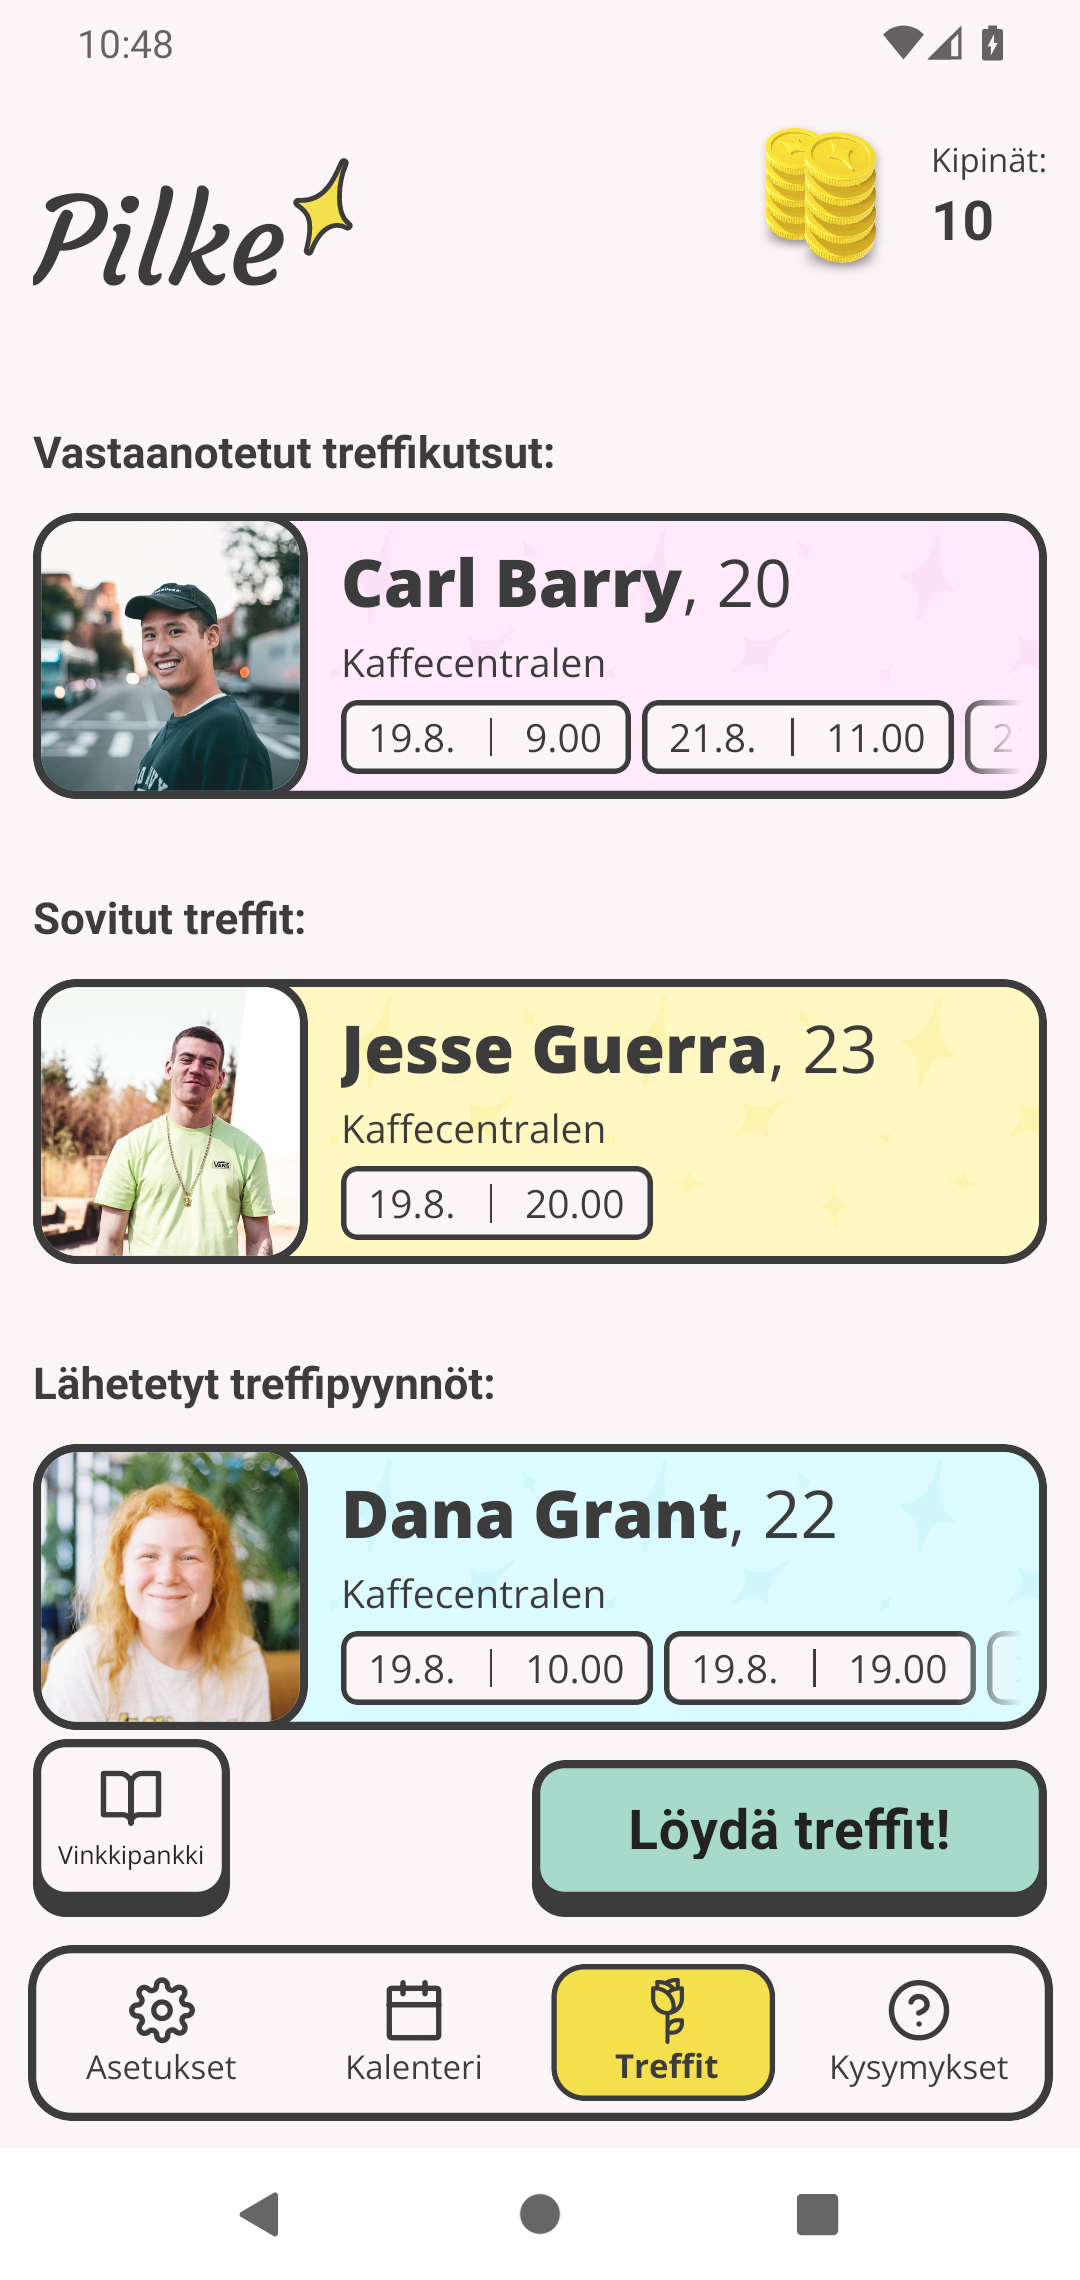
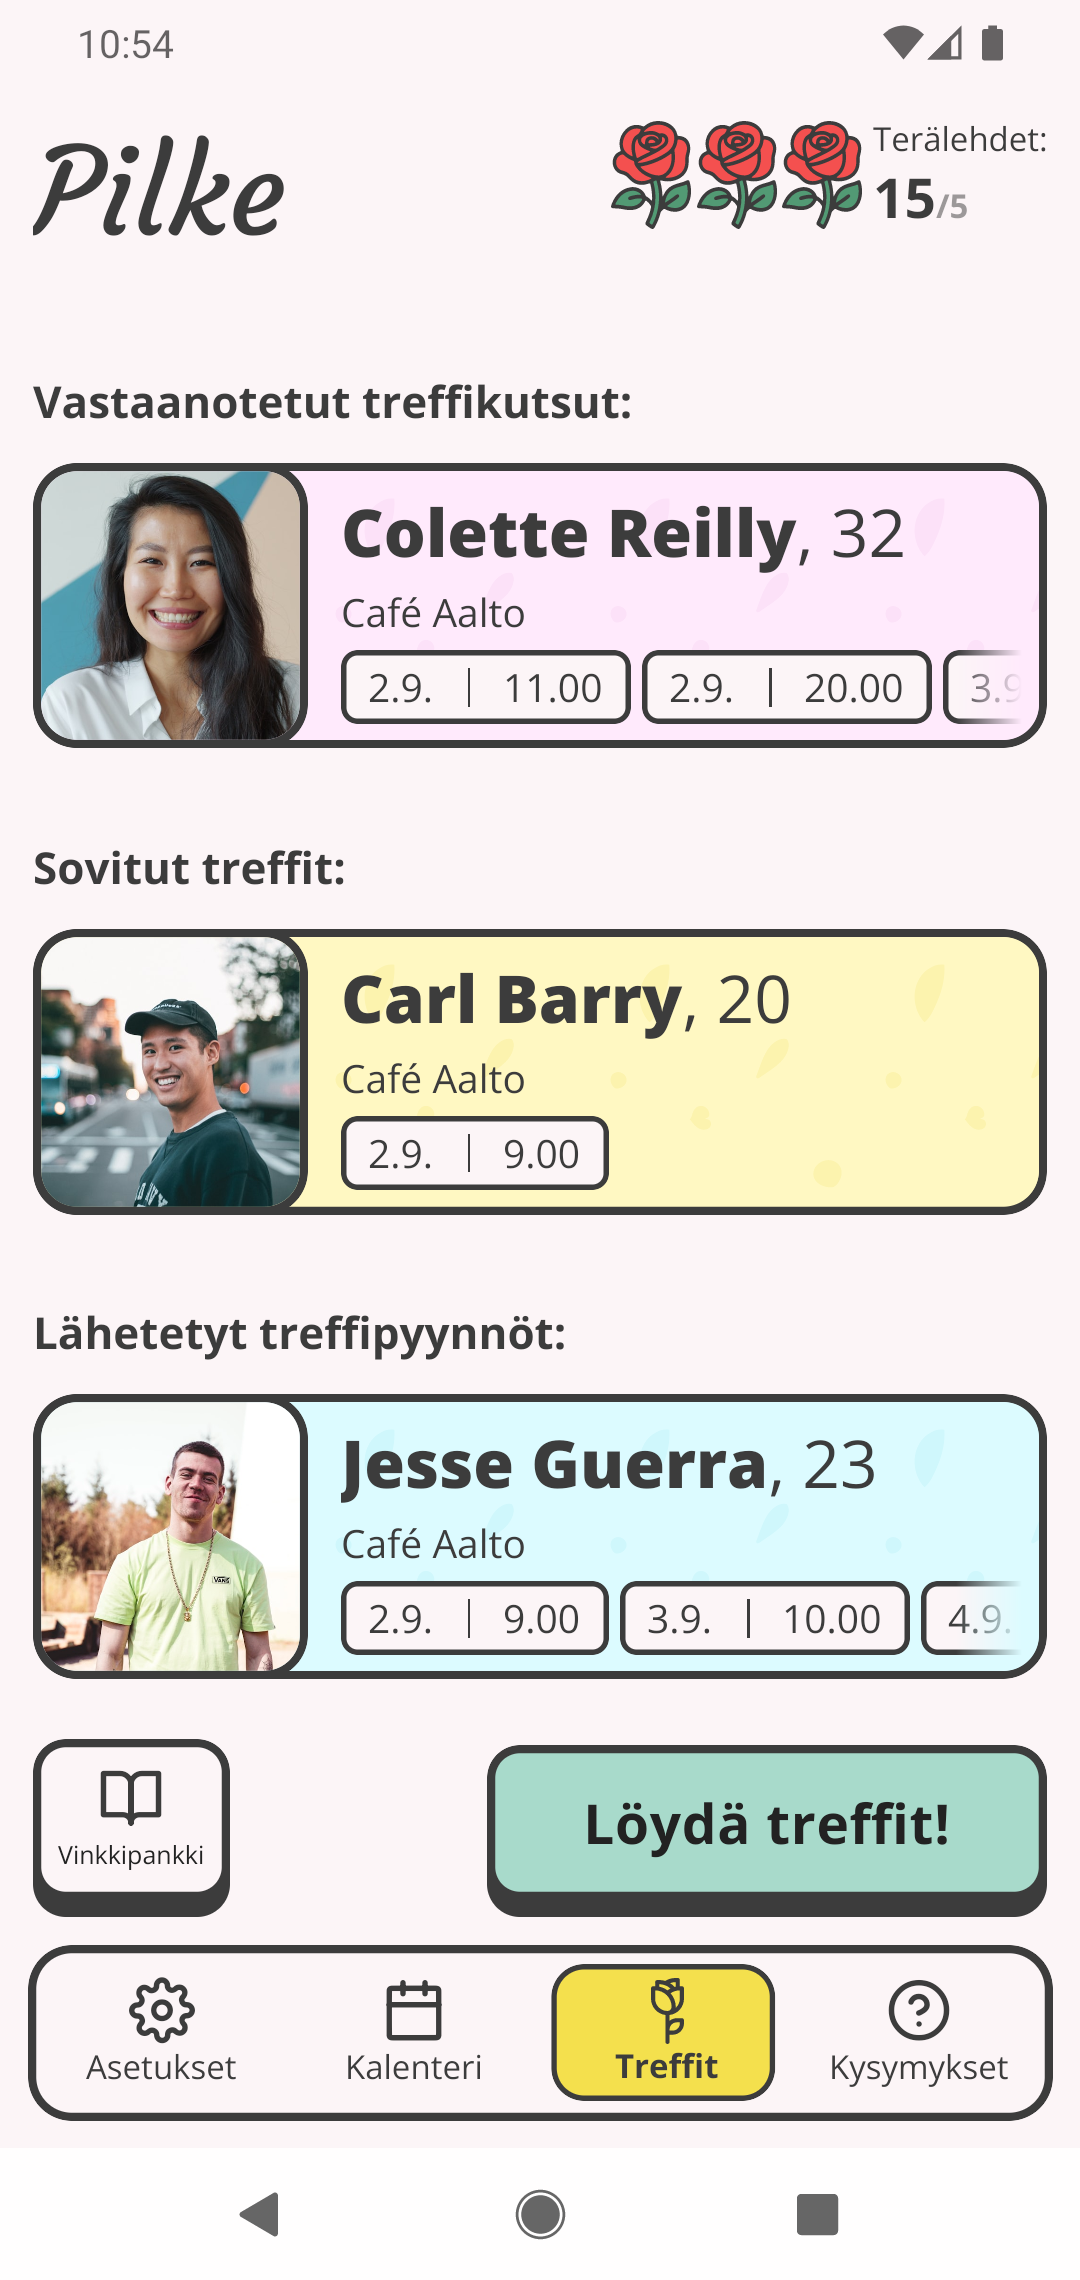
Reshoot the three pictures the petal refactor changed
`treffit` carried the coin pile and the `Kipinät:` label; it now shows
three rose slots and `Terälehdet: 15/5`. `story` and `platter` were both
drawn on the sparkle-tiled ground, which is the petal tile now, and
`story` also carries the wordmark, so its sparkle became a rose.

The other four are deliberately untouched. `invitation`, `date`,
`feedback` and `asetukset` name nothing the refactor changed, and this
document's own rule says reshooting them "only churns which mock partner
the fixture paired you with" — which is exactly what happened when I
tried: a richer availability fixture pushed the invitation's offered
times to sixteen chips and shoved the venue, the map and both answer
buttons off the screen, and LogBox landed a warning toast in two other
captures.

Verified by decoding `dist/_astro/treffit.*.webp` rather than the source,
since the optimiser keys its cache on path; `npm run pictures --check`
passes at 14 pages and 7 pictures.

Also corrected two things this document had wrong: current Maestro writes
`takeScreenshot: shots/x` under `~/.maestro/tests/<run>/…` rather than
the working directory, which reads as a flow that silently wrote nothing;
and the flows want a preview build, because a development build adds both
the dev launcher and the LogBox toast.

Claude-Session: https://claude.ai/code/session_01GD9L6NkBiCqNs6T5pZN8hJ

diff --git a/docs/pictures.md b/docs/pictures.md
@@ -27,8 +27,18 @@ back is to copy it out of `pilke-app/shots/` and give it a row below.
 
 Screenshots come from `pilke-app/.maestro/demo/`: `screenshots.yaml` takes most of them,
 `screenshotDate.yaml`, `screenshotPlatter.yaml`, `screenshotStory.yaml` and
-`screenshotFeedback.yaml` the ones needing a fixture that flow cannot build. They land in
-`pilke-app/shots/` and are copied here by hand.
+`screenshotFeedback.yaml` the ones needing a fixture that flow cannot build. They are
+copied here by hand from wherever Maestro wrote them — current versions put a
+`takeScreenshot: shots/x` under
+`~/.maestro/tests/<run>/<flow name>/takeScreenshot/shots/x.png` rather than in the
+directory the command was run from, so check there before concluding a flow wrote
+nothing.
+
+⚠ **Run the flows against a preview build** (`npm run build:ci`), which is what CI does.
+A development build adds two things a marketing asset must not carry: the dev launcher
+appears after every `clearState: true` unless the flow reconnects it, and LogBox parks a
+red warning toast over the bottom of the screen — it landed in a `date` and a `feedback`
+capture during the #72 reshoot and both had to be retaken.
 
 ## What is drawn where
 
@@ -38,20 +48,20 @@ Generated by `npm run pictures`. Widths are what the page asks for, before the 2
 
 | Page | Pictures, in the order they appear |
 | --- | --- |
-| `/en/` | `treffit` 600px<br>`platter` 600px<br>`invitation` 600px<br>`date` 600px<br>`feedback` 600px<br>`asetukset` 460px |
-| `/en/kayttoehdot/` | none |
-| `/en/kysyttya/` | none |
-| `/en/nain-se-toimii/` | `story` 500px<br>`platter` 500px<br>`05` 73px<br>`date` 500px |
-| `/en/tietojen-poisto/` | none |
-| `/en/tietosuoja/` | none |
-| `/en/turvallisuus/` | `asetukset` 520px |
+| `/en.html/` | `treffit` 600px<br>`platter` 600px<br>`invitation` 600px<br>`date` 600px<br>`feedback` 600px<br>`asetukset` 460px |
+| `/en/kayttoehdot.html/` | none |
+| `/en/kysyttya.html/` | none |
+| `/en/nain-se-toimii.html/` | `story` 500px<br>`platter` 500px<br>`date` 500px |
+| `/en/tietojen-poisto.html/` | none |
+| `/en/tietosuoja.html/` | none |
+| `/en/turvallisuus.html/` | `asetukset` 520px |
 | `/` | `treffit` 600px<br>`platter` 600px<br>`invitation` 600px<br>`date` 600px<br>`feedback` 600px<br>`asetukset` 460px |
-| `/kayttoehdot/` | none |
-| `/kysyttya/` | none |
-| `/nain-se-toimii/` | `story` 500px<br>`platter` 500px<br>`05` 73px<br>`date` 500px |
-| `/tietojen-poisto/` | none |
-| `/tietosuoja/` | none |
-| `/turvallisuus/` | `asetukset` 520px |
+| `/kayttoehdot.html/` | none |
+| `/kysyttya.html/` | none |
+| `/nain-se-toimii.html/` | `story` 500px<br>`platter` 500px<br>`date` 500px |
+| `/tietojen-poisto.html/` | none |
+| `/tietosuoja.html/` | none |
+| `/turvallisuus.html/` | `asetukset` 520px |
 
 Every screenshot in `src/assets/screens` is drawn on at least one page.
 
@@ -64,7 +74,7 @@ that are visible, so a change to any of them can be traced back to the pictures 
 
 | Picture | App screen | Taken by | What is visible in it |
 | --- | --- | --- | --- |
-| `treffit` | Home, populated | `screenshots.yaml` | **The balance counter: the rose slots and the `n/5` figure.** The wordmark, three stacks of match cards with partner photos, names, ages, venues and timeslot chips, the `Loyda treffit!` button, the tab bar. The only picture on this site with the currency in it. ⚠ **Stale: it still shows the coin counter**, so it needs retaking against a build carrying `RoseCounter` |
+| `treffit` | Home, populated | `screenshots.yaml` | **The balance counter: the rose slots and the `n/5` figure.** The wordmark, three stacks of match cards with partner photos, names, ages, venues and timeslot chips, the `Loyda treffit!` button, the tab bar. The only picture on this site with the currency in it |
 | `platter` | Candidates | `screenshotPlatter.yaml` | A candidate's photo card, name and age, the times both people share, the activity chips, the `Ehdota!` button, the pager dots. Drawn on the brand yellow, so a change to that colour shows here |
 | `invitation` | Invitation received | `screenshots.yaml` | The sender's photo card, the timeslots offered as chips, the venue, the map, and the two answers: `Hylkaa` and `Sovittu!` |
 | `date` | An agreed date | `screenshotDate.yaml` | The partner card, the venue and its description, the map, the location-sharing line, the back control |
